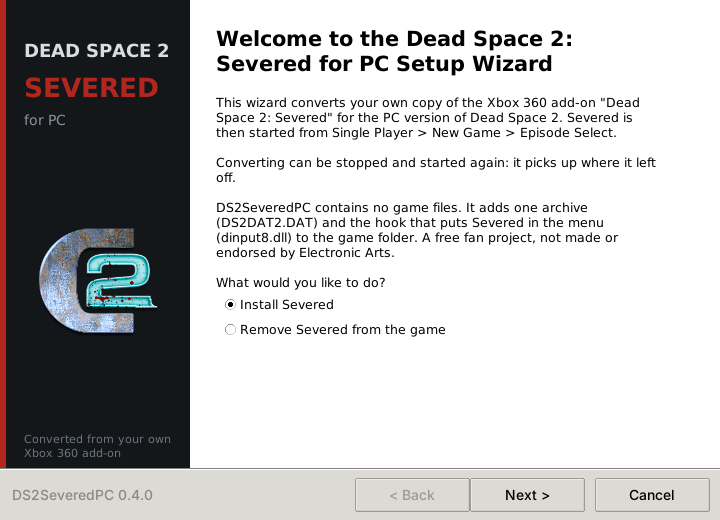
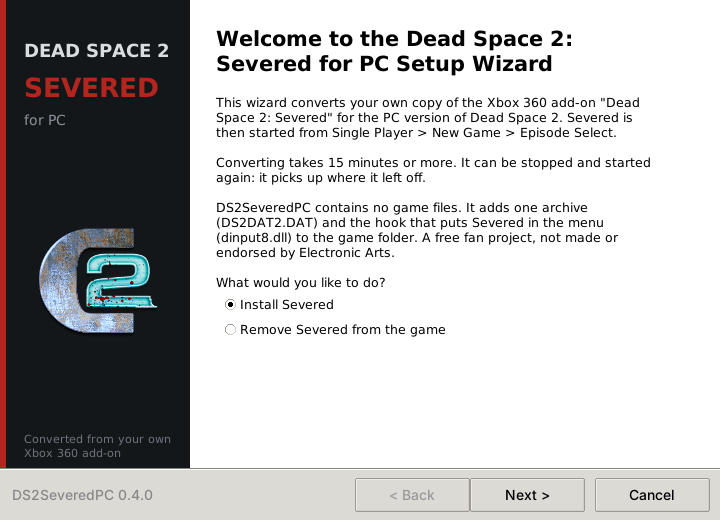
App: say converting takes 15 minutes or more (a full Windows run)

Changed region(s): [[0.3056, 0.3077, 0.9167, 0.3692]]

diff --git a/tools/app/severed_installer.py b/tools/app/severed_installer.py
@@ -264,7 +264,8 @@ class Wizard:
             '\nThis wizard converts your own copy of the Xbox 360 add-on "Dead Space 2: '
             'Severed" for the PC version of Dead Space 2. Severed is then started from '
             'Single Player > New Game > Episode Select.\n\n'
-            'Converting can be stopped and started again: it picks up where it left off.\n\n'
+            'Converting takes 15 minutes or more. It can be stopped and started again: it '
+            'picks up where it left off.\n\n'
             'DS2SeveredPC contains no game files. It adds one archive (DS2DAT2.DAT) and the '
             'hook that puts Severed in the menu (dinput8.dll) to the game folder. A free fan project, not made or endorsed by Electronic Arts.\n\n'
             'What would you like to do?')).pack(anchor='w')
@@ -319,7 +320,7 @@ class Wizard:
     def page_installing(self):
         install = self.mode.get() == 'install'
         f = self.head_page('Installing' if install else 'Removing',
-                           'Please wait while Severed is converted.' if install
+                           'Please wait while Severed is converted. This takes 15 minutes or more.' if install
                            else 'Please wait.')
         self.status = ttk.Label(f, text='Starting...')
         self.status.pack(anchor='w')

diff --git a/docs/PROGRESS.md b/docs/PROGRESS.md
@@ -232,7 +232,8 @@ release).
   also runs the app's `--selftest` (data files, native library, ffmpeg's
   xma2 decoder) and uploads the app as the run's artifact. Checked on Linux:
   the build, the self-test, every
-  wizard page. Still to do: a real conversion through it on Windows.
+  wizard page. A full conversion through the app on Windows completed
+  start to end in about 15 minutes (run 10's build, from the add-on file).
   On hold until the DLC plays start to finish: the workflow now runs only
   when started by hand (no build on every push); testing goes through
   `Make-SeveredTest.bat`.

diff --git a/README.md b/README.md
@@ -247,8 +247,8 @@ How it works:
 
    <p align="center"><img src="docs/img/install/install_3_ready.png" alt="Ready to install page" width="540"></p>
 
-   The window shows the current step and every file the converter works
-   on. If it stops or you cancel it, run the app again: it
+   Converting takes 15 minutes or more. The window shows the current step
+   and every file the converter works on. If it stops or you cancel it, run the app again: it
    picks up where it left off.
 
    <p align="center"><img src="docs/img/install/install_4_installing.png" alt="Installing page" width="540"></p>
